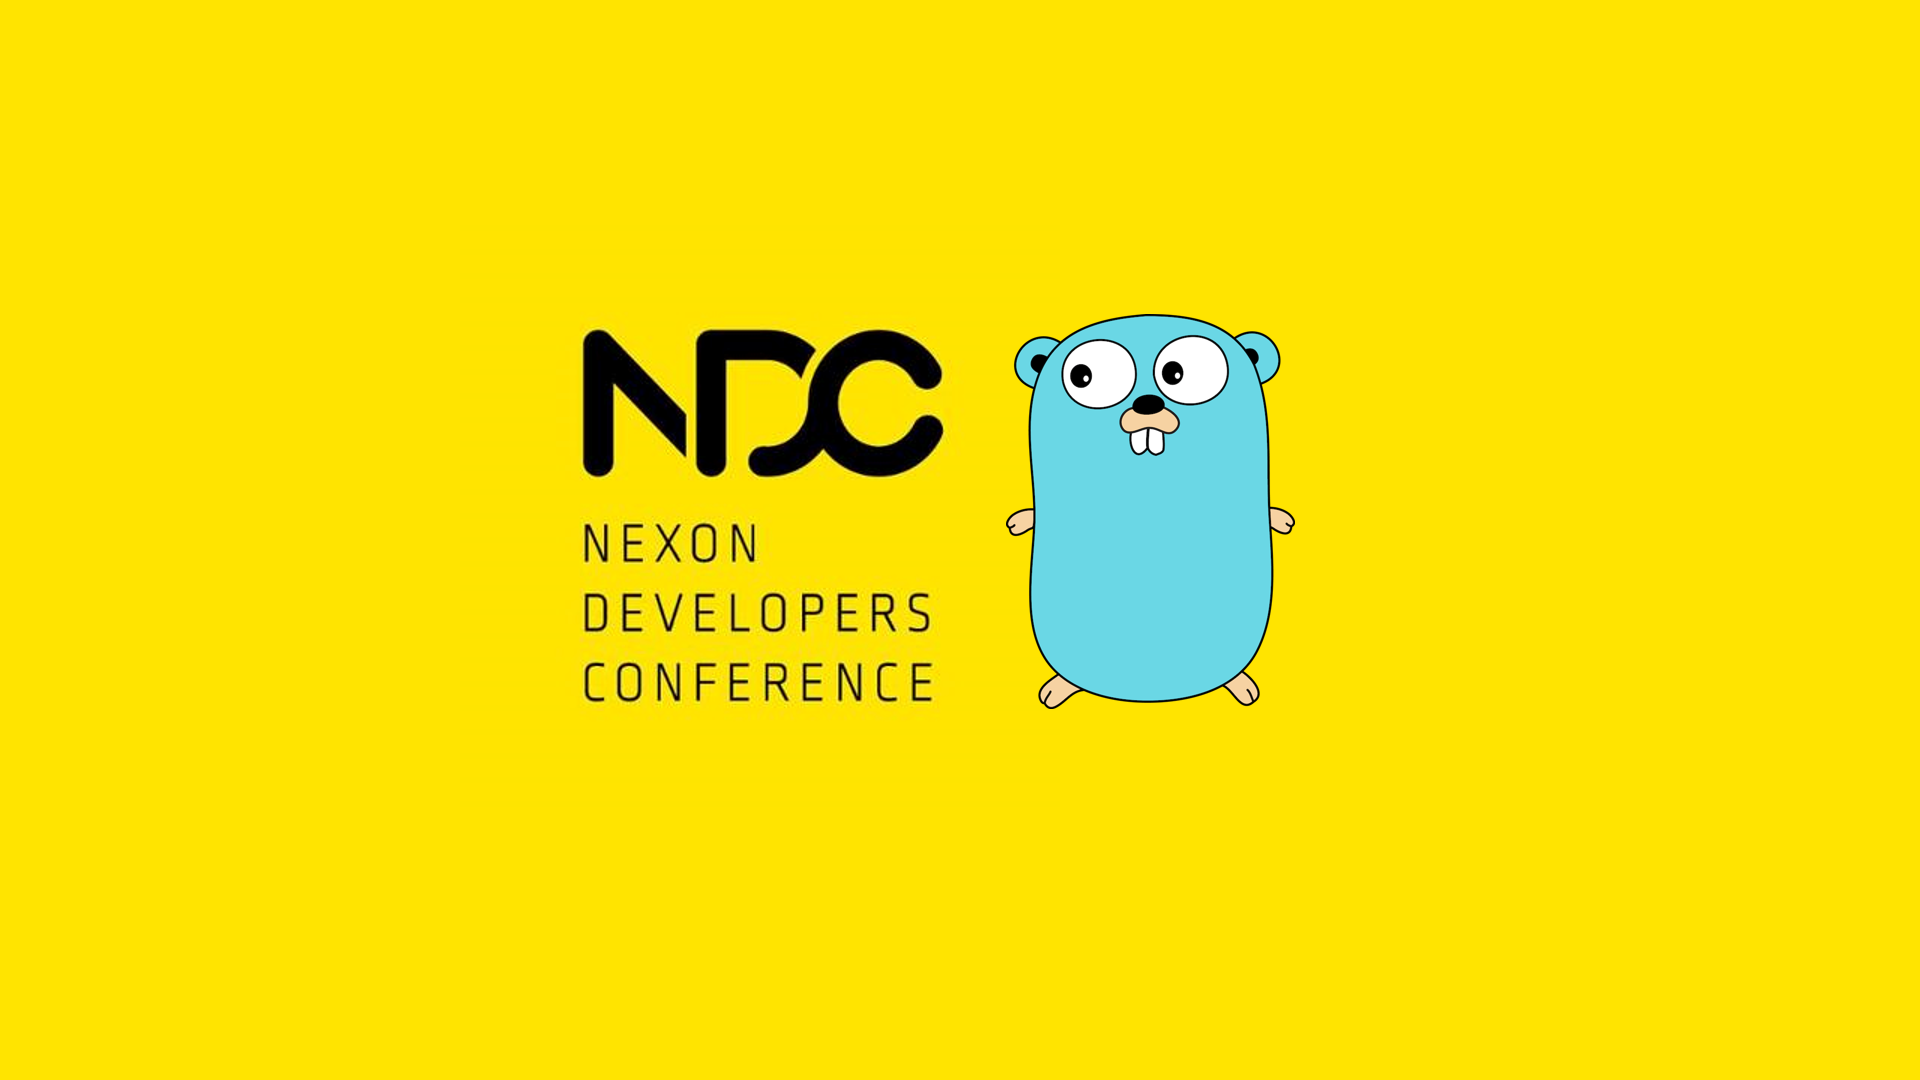
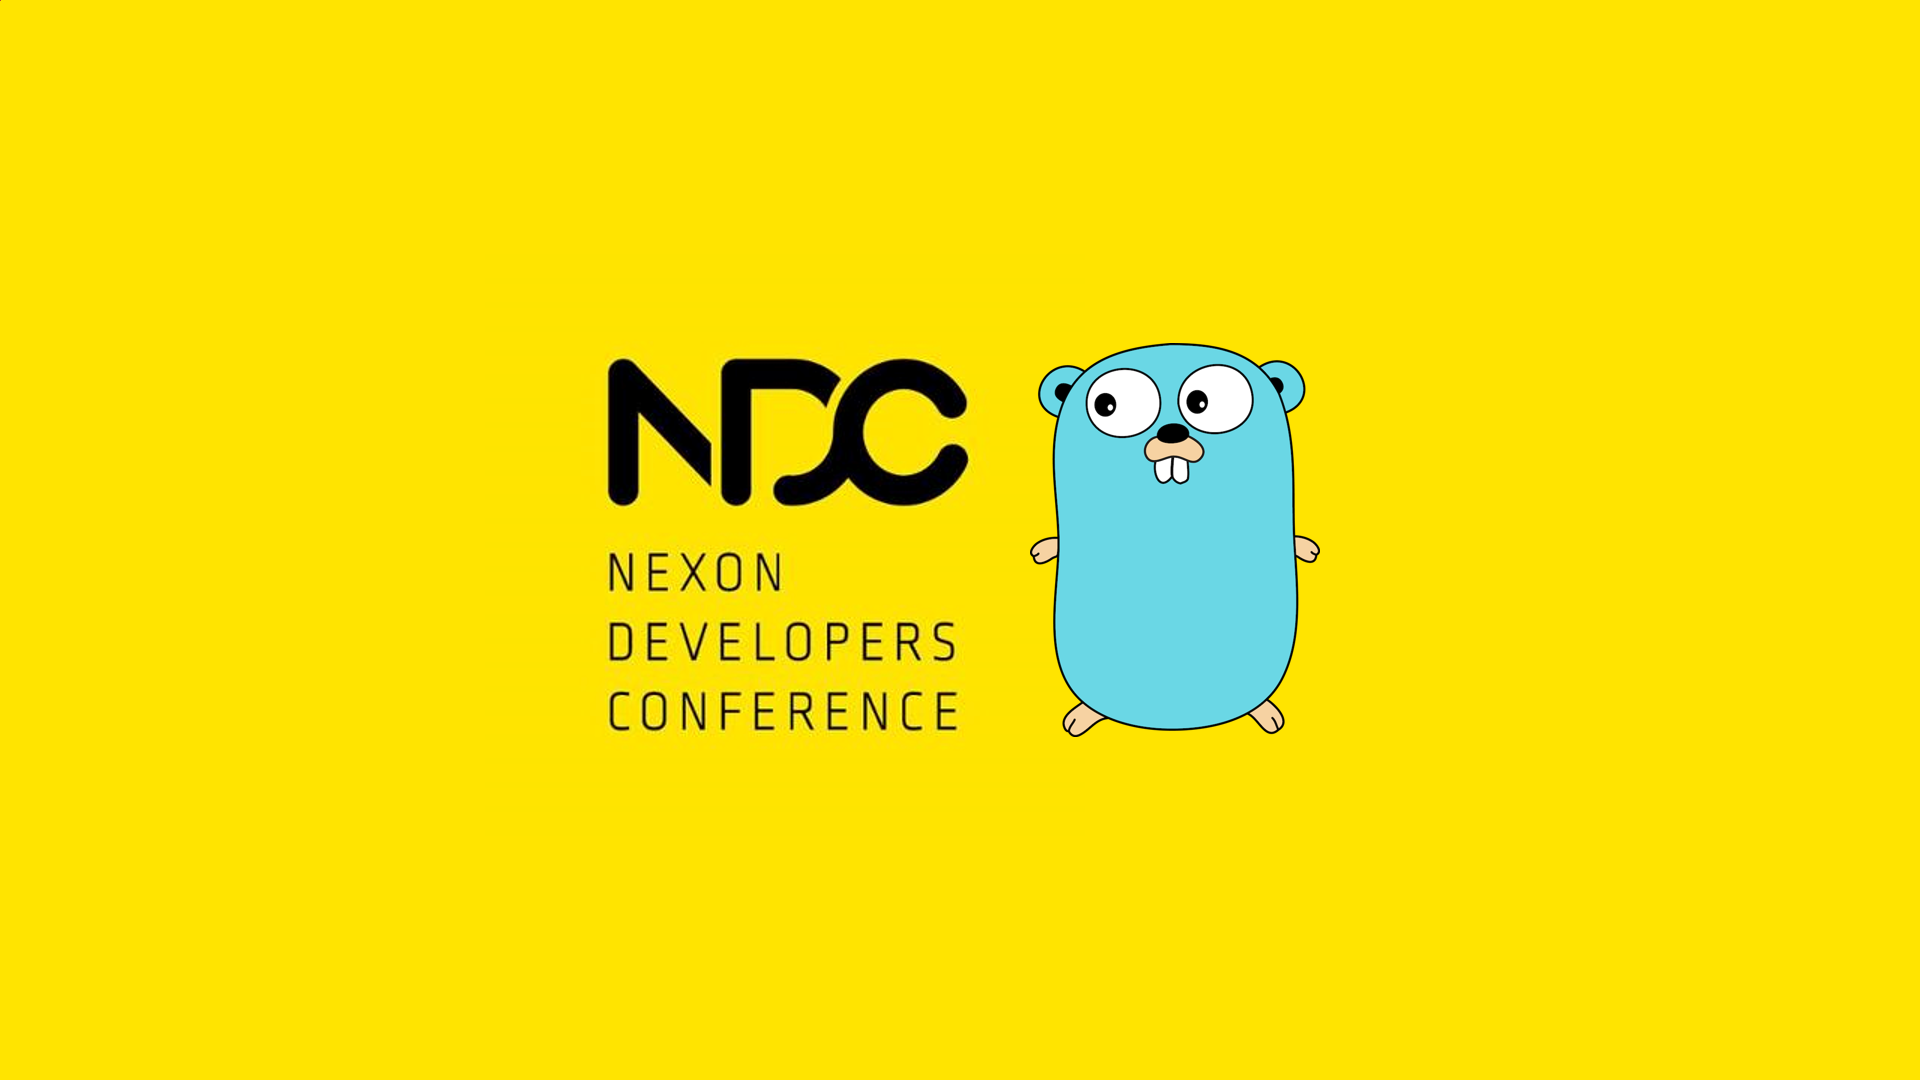
Modify img link - Go lang으로 네트워크 프로그래밍

Changed region(s): [[0.2812, 0.275, 0.6875, 0.7028]]

diff --git a/Article/GO/Golang으로_네트워크_프로그래밍하기/Golang으로_네트워크_프로그래밍하기.md b/Article/GO/Golang으로_네트워크_프로그래밍하기/Golang으로_네트워크_프로그래밍하기.md
@@ -1,5 +1,10 @@
 # Go 언어로 네트워크 프로그래밍하기
 
+
+
+<br />
+<img src="https://github.com/KoEonYack/PracticeCoding/blob/master/Article/GO/Golang%EC%9C%BC%EB%A1%9C_%EB%84%A4%ED%8A%B8%EC%9B%8C%ED%81%AC_%ED%94%84%EB%A1%9C%EA%B7%B8%EB%9E%98%EB%B0%8D%ED%95%98%EA%B8%B0/img/cover.png?raw=true" align="center" style="display: block; margin: 0px auto; display: block; height: auto; border:1px solid #eaeaea; padding: 0px;" width="" >
+<br />
 <br />
 
 최흥배(컴투스)님께서 NDC에서 18년 7월 발표하신 [Go 언어로 네트워크 프로그래밍하기](https://youtu.be/5NsUPbdKOF8) 내용을 정리한 것입니다. 
@@ -8,7 +13,7 @@
 <br />
 
 
-## 결론부터 이야기한다면?
+# 결론부터 이야기한다면?
 
 <br />
 
@@ -19,7 +24,7 @@
 - 고루틴은 stateless에서 아주 좋지만 statefull 에서는 한계가 있다.
 
 <br />
-<img src="./img/game_server.PNG?raw=true" align="center" style="display: block; margin: 0px auto; display: block; height: auto; border:1px solid #eaeaea; padding: 0px;" width="" >
+<img src="https://github.com/KoEonYack/PracticeCoding/blob/master/Article/GO/Golang%EC%9C%BC%EB%A1%9C_%EB%84%A4%ED%8A%B8%EC%9B%8C%ED%81%AC_%ED%94%84%EB%A1%9C%EA%B7%B8%EB%9E%98%EB%B0%8D%ED%95%98%EA%B8%B0/img/game_server.PNG?raw=true" align="center" style="display: block; margin: 0px auto; display: block; height: auto; border:1px solid #eaeaea; padding: 0px;" width="" >
 <br />
 <center>Source. 18 NDC 발표자료</center>
 <br />
@@ -31,7 +36,7 @@
 <br />
 
 
-## GO가 무엇인가?
+# GO가 무엇인가?
 
 <br />
 
@@ -50,7 +55,7 @@
 <br />
 <br />
 
-## Go 잘하는것
+# Go 잘하는것
 
 <br />
 
@@ -64,7 +69,7 @@
 - Thread를 막 만들어도 괜찮다.
 
 <br />
-<img src="./img/channel.PNG?raw=true" align="center" style="display: block; margin: 0px auto; display: block; height: auto; border:1px solid #eaeaea; padding: 0px;" width="" >
+<img src="https://github.com/KoEonYack/PracticeCoding/blob/master/Article/GO/Golang%EC%9C%BC%EB%A1%9C_%EB%84%A4%ED%8A%B8%EC%9B%8C%ED%81%AC_%ED%94%84%EB%A1%9C%EA%B7%B8%EB%9E%98%EB%B0%8D%ED%95%98%EA%B8%B0/img/channel.PNG?raw=true" align="center" style="display: block; margin: 0px auto; display: block; height: auto; border:1px solid #eaeaea; padding: 0px;" width="" >
 <br />
 <center>Source. geeksforgeeks.com</center>
 <br />
@@ -83,7 +88,7 @@
 <br />
 
 
-## 쓸만한 프로그래밍 언어 조건
+# 쓸만한 프로그래밍 언어 조건
 
 <br />
 
@@ -96,7 +101,7 @@
 <br />
 <br />
 
-## GO로 게임 서버를 개발하려면?
+# GO로 게임 서버를 개발하려면?
 
 <br />
 
@@ -121,7 +126,7 @@
 <br />
 <br />
 
-## 실시간 통신 게임 서버
+# 실시간 통신 게임 서버
 
 <br />
 
@@ -132,7 +137,7 @@
 <br />
 <br />
 
-## Go는 빠르지만..
+# Go는 빠르지만..
 
 <br />
 
@@ -141,8 +146,12 @@
 - C++은 세밀하게 하나 내가 괸라한다. Go는 세밀하게 관리할 수 없다.
 
 
+<br />
+<br />
 
-## 공부는 어떻게?
+# 공부는 어떻게?
+
+<br />
 
 - 물어볼 곳이 별로 없다.
 - 그러나 stack overflow에 답이 다 있다. 
